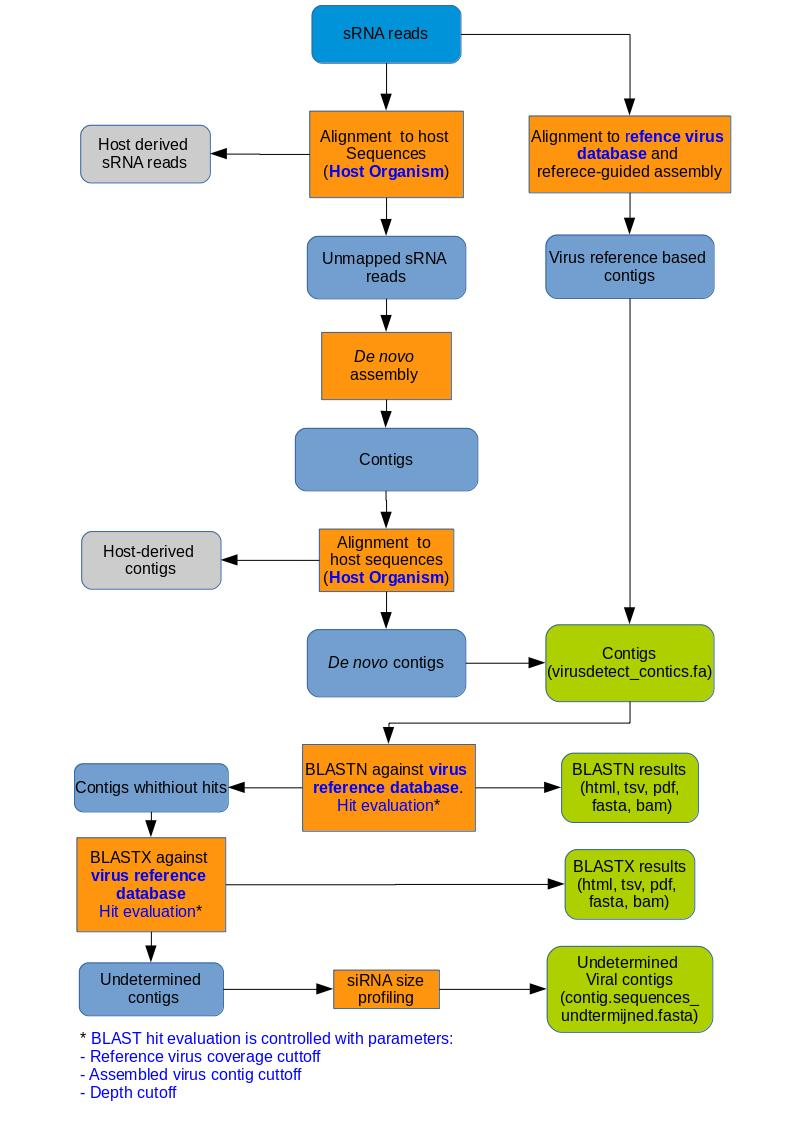
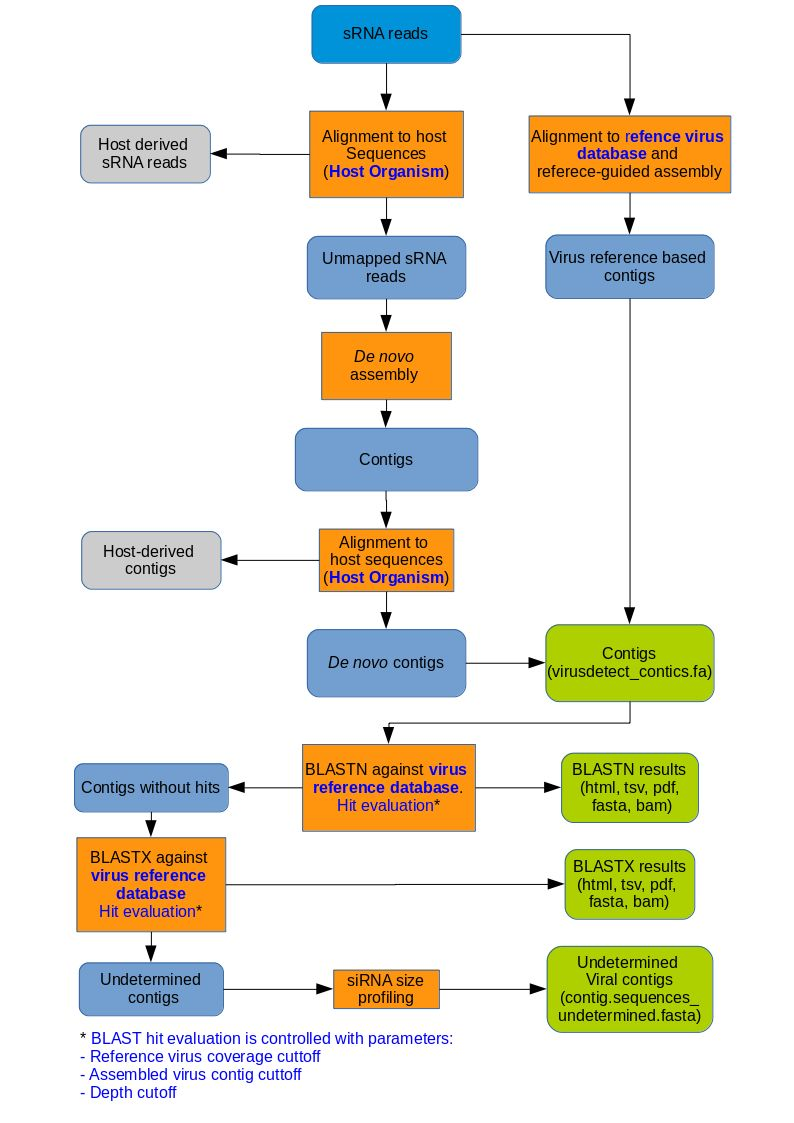
VirusDetect manual updated.

diff --git a/manual/virusdetect.html b/manual/virusdetect.html
@@ -3,7 +3,7 @@
 <head><title></title></head>
 <body>
 
-<h2>Virus Detect</h2>
+<h2>VirusDetect</h2>
 
 <h3>Description</h3>
 
@@ -21,7 +21,7 @@ The proposed virus assignments are picked based on following parameters:
  are considered as significant matches. </li>
  <li><b>Assembled virus contig cuttoff</b>: The virus assignment is reported only if more than the given proportion of the reference genome is
  covered with significant matches to the generated contigs (e.g. the default value of 0.1 means that at least 10 % 
- of the reference virus genome must match to the contigs generated by Virus detect)</li>
+ of the reference virus genome must match to the contigs generated by VirusDetect)</li>
  <li><b>Depth cutoff</b>. Here the depth means the average total number of times each nucleotide of 
  the reference sequence is covered by sequences identified in the sample.</li>
 </ul>
@@ -39,7 +39,7 @@ a separate VirusDetect analysis will be done for each file.
 <p>
 <li><b>Reference virus database</b> VirusDetect is mainly used for detecting plant viruses, 
 but you can use it for other viruses too. Use this parameter to select a virus reference database 
-matching you virus type.</li>
+matching your sample type.</li>
 </p>
 <p>
 <li><b>Host Organism</b> If possible, the input data should be cleaned from sequences originating from the genome of the host organism.
@@ -67,25 +67,29 @@ number of times each nucleotide of the reference sequence is covered by sequence
 </ul>
 <h3>Output</h3>
 
-VirusDetect produces large amount of different files as reports. Output related options are used to 
+VirusDetect produces large amount of different files and reports. Output related options are used to 
 select, what data is returned. By default VirusDtetect returns following files:
 <ul>
 <li><b>virusdetect_contigs.fa</b>Sequences of non-redundant contigs derived through reference-guided and de novo assemblies.</li>
 <li><b>contig_sequences.undetermined.fa</b> Sequences of contigs that do not match to virus references.</li> 
-<li><b>blastn_matching_refrences.html</b> files listing reference viruses that have corresponding virus contigs identified by BLASTN. A pdf formatted report file is returned for each match</li>
+<li><b>blastn_matching_refrences.html</b> files listing reference viruses that have corresponding virus contigs identified by BLASTN. 
+A pdf formatted report file is returned for each match</li>
 <li><b>blastn_matches.tsv</b> a table of blastn matches to the reference virus database.</li>
-<li><b>blastx_matching_refrences.html</b> files listing reference viruses that have corresponding virus contigs identified by BLASTX. A pdf formatted report file is returned for each match </li>
+<li><b>blastx_matching_refrences.html</b> files listing reference viruses that have corresponding virus contigs identified by BLASTX. 
+A pdf formatted report file is returned for each match </li>
 <li><b>blastx_matches.tsv</b> a table of blastn matches to the reference virus database.</li>
 
 </ul>
 
 If parameter <b>Return matching reference sequences</b> is turned on the also following files are returned 
 <ul>
-<li><b>blastn_matching_references.fa</b> and <b>.fai</b>. Virus reference sequences that produced hits for blastn search with the potential virus contigs.</lI>
-<li><b>blastn_matching_references.fa</b> and <b>.fai</b>. Virus reference sequences that produced hits for blastn search with the potential virus contigs.</lI>
+<li><b>blastn_matching_references.fa</b> and <b>.fai</b>. Virus reference sequences that produced hits 
+for blastn search with the potential virus contigs.</lI>
+<li><b>blastn_matching_references.fa</b> and <b>.fai</b>. Virus reference sequences that produced hits 
+for blastn search with the potential virus contigs.</lI>
 </li>
 </ul>
-If parameter <b>Return matching reference sequences</b> is turned on the also following files are returned 
+If parameter <b>Return BAM formatted alignments</b> is turned on the also following files are returned 
 <ul>
 <li><b>blastn_matches.bam</b> and <b>.bai</b>. BAM file containing the blastn alignment of each contig to its corresponding virus reference sequences.</li> 
 <li><b>blastx_matches.bam</b> and <b>.bai</b>. BAM file containing the blastx alignment of each contig to its corresponding virus reference sequences.</li> 
@@ -96,6 +100,9 @@ Note: If you select both the blastn_matching_references.fa + .fai and blastn_mat
 In the Genome Browser the <i>blastn_matching_references.fa</i> should be assigned to be used as the genome.
 Each reference virus sequence is then listed in the <i>Chromosome</i> pull down menu.  
 </p>
+<p>When parameter<b>Use input names in output file names</b> is selected, the names VirusDetect output files will start
+with the name of the input file analyzed</p>
+
 
 <p>If parameter <b>Return results in one archive file</b> is selected, the all the output files are stored to
 a single tar formatted output file. This feature is useful if you run VirusDetetc to several input files in 
